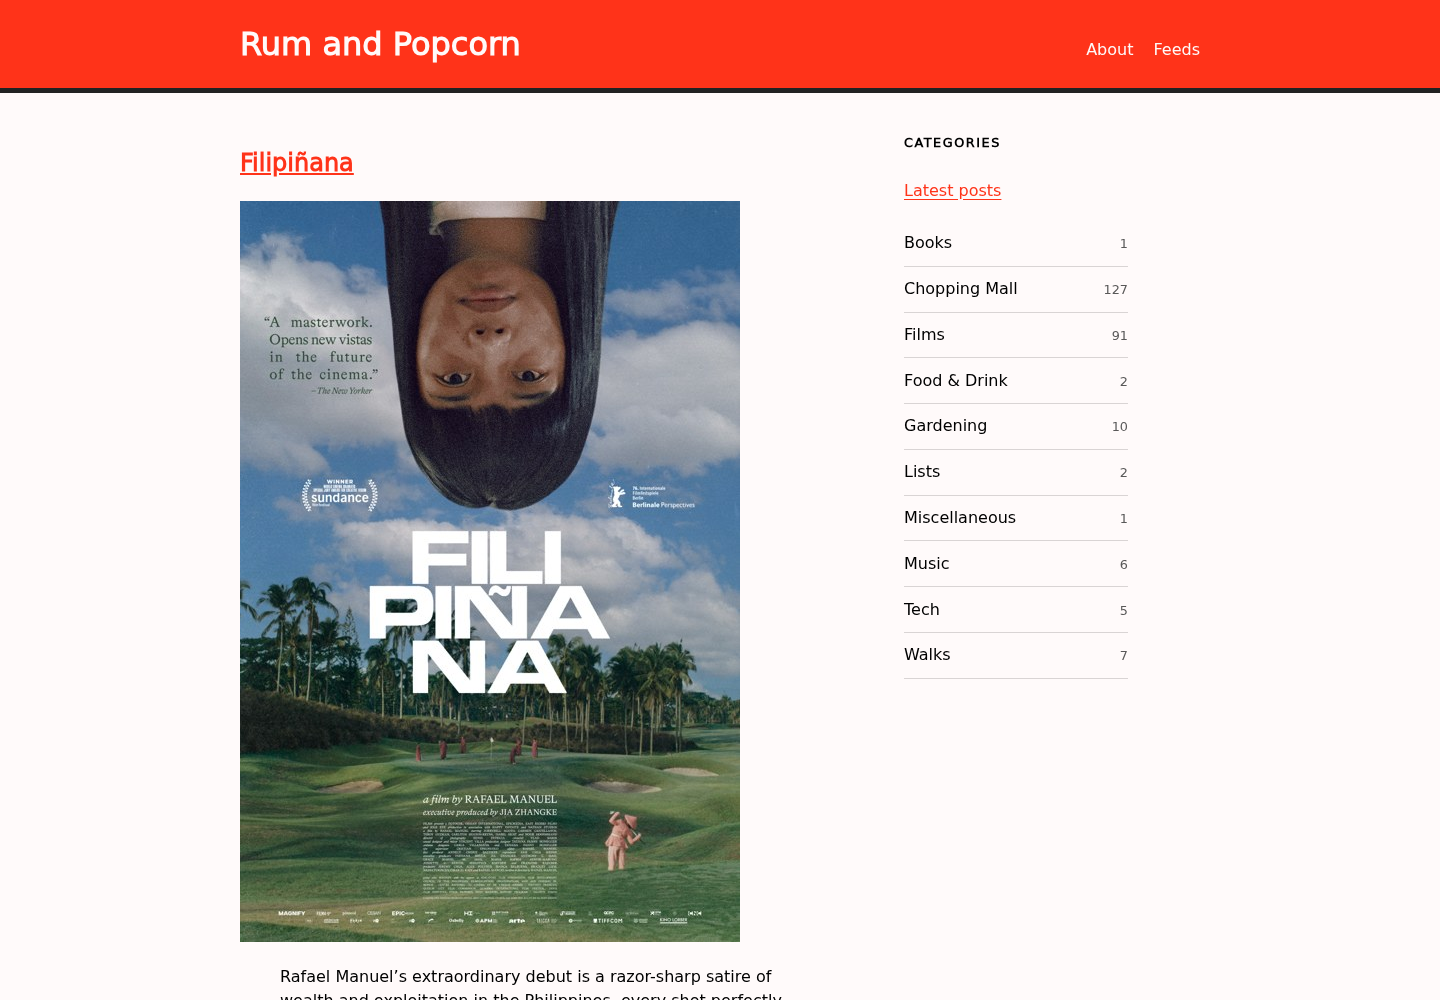
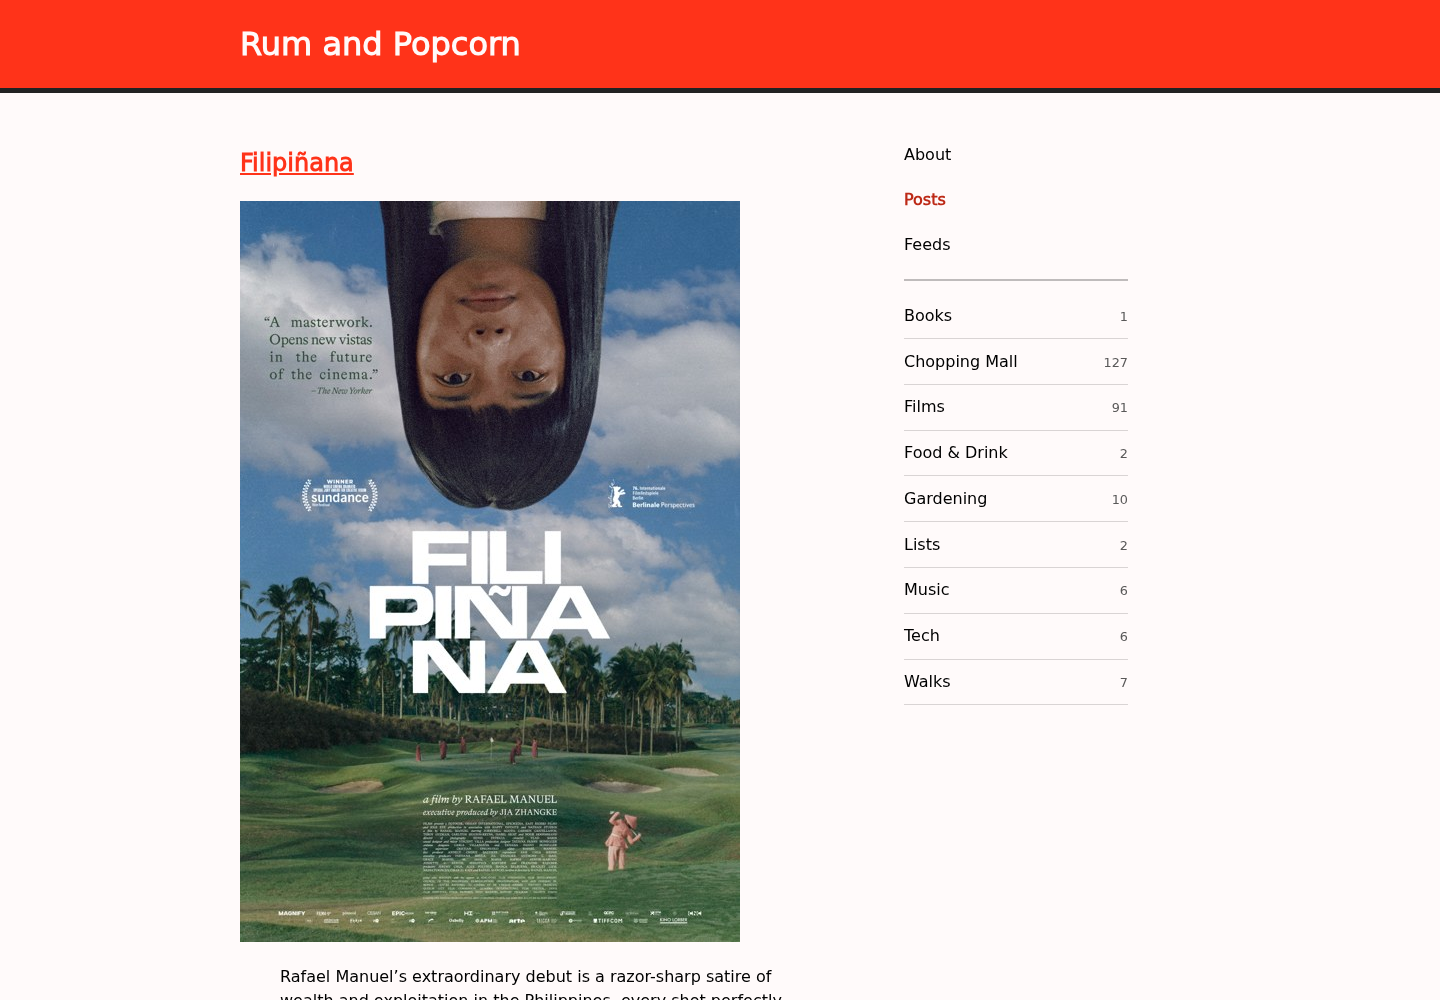
Unify sidebar links and add mobile header menu

diff --git a/rnp/themes/chocos/assets/css/main.css b/rnp/themes/chocos/assets/css/main.css
@@ -57,17 +57,6 @@ body {
   gap: 1rem;
 }
 
-.utility-nav {
-  display: flex;
-  gap: 1.25rem;
-}
-
-.utility-nav a:hover,
-.utility-nav a[aria-current="page"] {
-  text-decoration: underline;
-  text-underline-offset: 0.3em;
-}
-
 .site-shell {
   width: 100%;
   max-width: 992px;
@@ -91,27 +80,21 @@ body {
   align-self: start;
 }
 
-.category-sidebar h2 {
-  margin: 0 0 1rem;
-  font-size: 0.8rem;
-  text-transform: uppercase;
-  letter-spacing: 0.12em;
-  color: var(--color-text);
-}
-
-.latest-link {
-  display: block;
-  padding: 0.65rem 0;
-  margin-bottom: 0.5rem;
-  text-underline-offset: 0.2em;
-}
-
+.utility-list,
 .category-list {
   list-style: none;
   margin: 0;
   padding: 0;
 }
 
+.utility-list {
+  padding-bottom: 0.75rem;
+  margin-bottom: 0.75rem;
+  border-bottom: 2px solid
+    color-mix(in srgb, var(--color-text) 25%, transparent);
+}
+
+.utility-list a,
 .category-list a {
   display: flex;
   justify-content: space-between;
@@ -126,13 +109,20 @@ body {
   text-decoration: none;
 }
 
+.utility-list a {
+  border-bottom: 0;
+}
+
+.utility-list a:hover,
+.utility-list a[aria-current="page"],
 .category-list a:hover,
 .category-list a[aria-current="page"],
 .category-list a.related-category {
   color: #bd2916;
 }
 
-.category-list a[aria-current="page"] {
+.category-list a[aria-current="page"],
+.utility-list a[aria-current="page"] {
   font-weight: 700;
   border-bottom-color: currentColor;
 }
@@ -143,7 +133,7 @@ body {
   color: color-mix(in srgb, var(--color-text) 65%, var(--color-background));
 }
 
-.mobile-categories {
+.mobile-menu {
   display: none;
 }
 
@@ -176,7 +166,8 @@ summary:focus-visible {
   outline-offset: 4px;
 }
 
-header a:focus-visible {
+header > .header-inner > a:focus-visible,
+.mobile-menu summary:focus-visible {
   outline-color: var(--color-header-text);
 }
 
@@ -188,12 +179,15 @@ header a:focus-visible {
 
   .header-inner {
     box-sizing: border-box;
-    flex-wrap: wrap;
-    gap: 0.5rem 1.5rem;
+    display: block;
+    position: relative;
+    padding-top: 1rem;
+    padding-bottom: 1rem;
   }
 
   .site-title {
-    font-size: clamp(1.5rem, 5.5vw, 2rem);
+    font-size: clamp(1.35rem, 5vw, 2rem);
+    padding-right: 3.25rem;
   }
 
   .site-shell {
@@ -204,32 +198,81 @@ header a:focus-visible {
     display: none;
   }
 
-  .mobile-categories {
+  .mobile-menu {
     display: block;
-    margin: 0 1rem;
-    border-bottom: 1px solid
-      color-mix(in srgb, var(--color-text) 25%, transparent);
   }
 
-  .mobile-categories summary {
-    padding: 0.85rem 0;
+  .mobile-menu summary {
+    position: absolute;
+    top: 0.75rem;
+    right: 0.75rem;
+    width: 44px;
+    height: 44px;
+    display: flex;
+    align-items: center;
+    justify-content: center;
     cursor: pointer;
-    font-weight: 600;
+    list-style: none;
+    border-radius: 4px;
   }
 
-  .mobile-categories[open] {
-    padding-bottom: 1rem;
+  .mobile-menu summary::-webkit-details-marker {
+    display: none;
   }
 
-  .mobile-categories .category-list {
-    display: grid;
-    grid-template-columns: repeat(2, minmax(0, 1fr));
-    gap: 0 1.25rem;
+  .mobile-menu summary:hover {
+    background: rgb(0 0 0 / 10%);
+  }
+
+  .menu-icon,
+  .menu-icon::before,
+  .menu-icon::after {
+    width: 24px;
+    height: 2px;
+    background: currentColor;
+    position: relative;
+    display: block;
+  }
+
+  .menu-icon::before,
+  .menu-icon::after {
+    content: "";
+    position: absolute;
+    left: 0;
+    top: -7px;
+  }
+
+  .menu-icon::after {
+    top: 7px;
+  }
+
+  .mobile-menu[open] .menu-icon {
+    background: transparent;
+  }
+
+  .mobile-menu[open] .menu-icon::before {
+    top: 0;
+    transform: rotate(45deg);
+  }
+
+  .mobile-menu[open] .menu-icon::after {
+    top: 0;
+    transform: rotate(-45deg);
+  }
+
+  .mobile-menu-panel {
+    background: var(--color-background);
+    color: var(--color-text);
+    margin-top: 1rem;
+    padding: 0.75rem 1rem;
+    border-radius: 4px;
+    box-shadow: 0 3px 12px rgb(0 0 0 / 12%);
   }
 }
 
 @media (prefers-color-scheme: dark) {
-  .latest-link,
+  .utility-list a:hover,
+  .utility-list a[aria-current="page"],
   .category-list a:hover,
   .category-list a[aria-current="page"],
   .category-list a.related-category {

diff --git a/rnp/themes/chocos/layouts/partials/header.html b/rnp/themes/chocos/layouts/partials/header.html
@@ -1,7 +1,9 @@
 <div class="header-inner">
     <a href="/"><h1 class="site-title">{{ site.Title }}{{ if not hugo.IsProduction }} - DEV {{ end }}</h1></a>
-    <nav class="utility-nav" aria-label="Main navigation">
-      <a href="{{ "about/" | relURL }}"{{ if eq .RelPermalink ("about/" | relURL) }} aria-current="page"{{ end }}>About</a>
-      <a href="{{ "feeds/" | relURL }}"{{ if eq .RelPermalink ("feeds/" | relURL) }} aria-current="page"{{ end }}>Feeds</a>
-    </nav>
+    <details class="mobile-menu">
+      <summary><span class="menu-icon" aria-hidden="true"></span><span class="visually-hidden">Menu</span></summary>
+      <div class="mobile-menu-panel">
+        {{ partial "category-nav.html" (dict "page" . "label" "Main navigation") }}
+      </div>
+    </details>
 </div>

diff --git a/rnp/themes/chocos/layouts/_default/baseof.html b/rnp/themes/chocos/layouts/_default/baseof.html
@@ -10,16 +10,11 @@
     {{ partial "header.html" . }}
   </header>
   <div class="site-shell">
-    <details class="mobile-categories">
-      <summary>Browse categories</summary>
-      {{ partial "category-nav.html" (dict "page" . "label" "Browse by category") }}
-    </details>
     <main id="main-content" class="main-col site-main">
       {{ block "main" . }}{{ end }}
     </main>
-    <aside class="category-sidebar" aria-labelledby="category-heading">
-      <h2 id="category-heading">Categories</h2>
-      {{ partial "category-nav.html" (dict "page" . "label" "Categories") }}
+    <aside class="category-sidebar" aria-label="Site navigation">
+      {{ partial "category-nav.html" (dict "page" . "label" "Main navigation") }}
     </aside>
   </div>
   <footer>

diff --git a/rnp/themes/chocos/layouts/partials/category-nav.html b/rnp/themes/chocos/layouts/partials/category-nav.html
@@ -1,6 +1,10 @@
 {{- $page := .page -}}
 <nav aria-label="{{ .label }}">
-  <a class="latest-link" href="{{ "" | relURL }}"{{ if $page.IsHome }} aria-current="page"{{ end }}>Latest posts</a>
+  <ul class="utility-list">
+    <li><a href="{{ "about/" | relURL }}"{{ if eq $page.RelPermalink ("about/" | relURL) }} aria-current="page"{{ end }}>About</a></li>
+    <li><a href="{{ "" | relURL }}"{{ if $page.IsHome }} aria-current="page"{{ end }}>Posts</a></li>
+    <li><a href="{{ "feeds/" | relURL }}"{{ if eq $page.RelPermalink ("feeds/" | relURL) }} aria-current="page"{{ end }}>Feeds</a></li>
+  </ul>
   <ul class="category-list">
     {{- range site.Taxonomies.categories.Alphabetical -}}
       {{- $term := .Page -}}

diff --git a/README.md b/README.md
@@ -60,8 +60,8 @@ categories: ["Films"]
 ```
 
 For TOML front matter, use `categories = ["Films"]`. Subjects currently include
-Books, Films, Food & Drink, Gardening, Miscellaneous, Music and Tech. Music-library
-setup articles are Tech; the original test post is Miscellaneous. Book-list pages
+Books, Films, Food & Drink, Gardening, Music and Tech. Music-library
+setup articles and the original test post are Tech. Book-list pages
 under `lists/` remain Lists. About, Feeds and Build Information are utility pages
 and intentionally have no category. Tags are independent and are not changed.
 

diff --git a/rnp/content/posts/2020-11-18-simple.md b/rnp/content/posts/2020-11-18-simple.md
@@ -1,5 +1,5 @@
 +++
-categories = ["Miscellaneous"]
+categories = ["Tech"]
 date = '2020-11-18T00:00:00Z'
 title = 'A simple test post'
 slug = 'simple'
